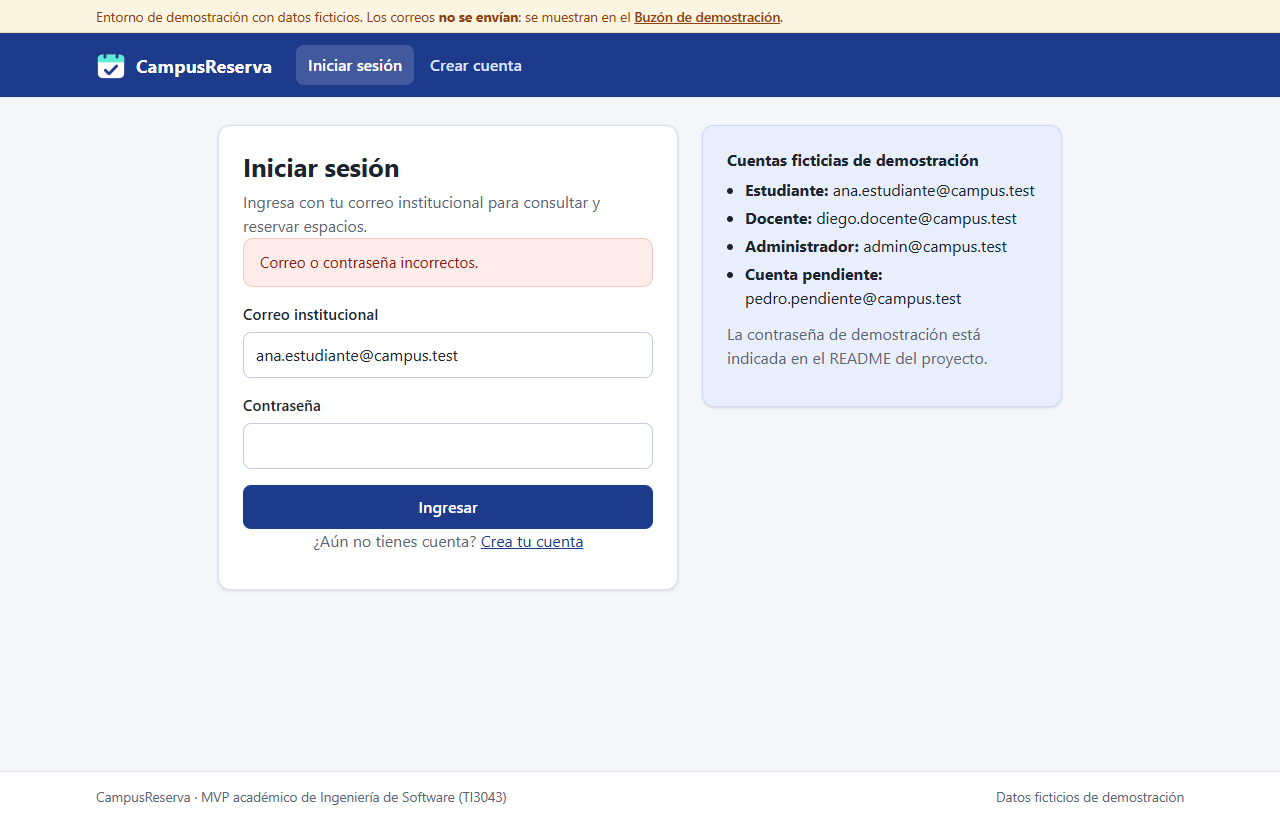
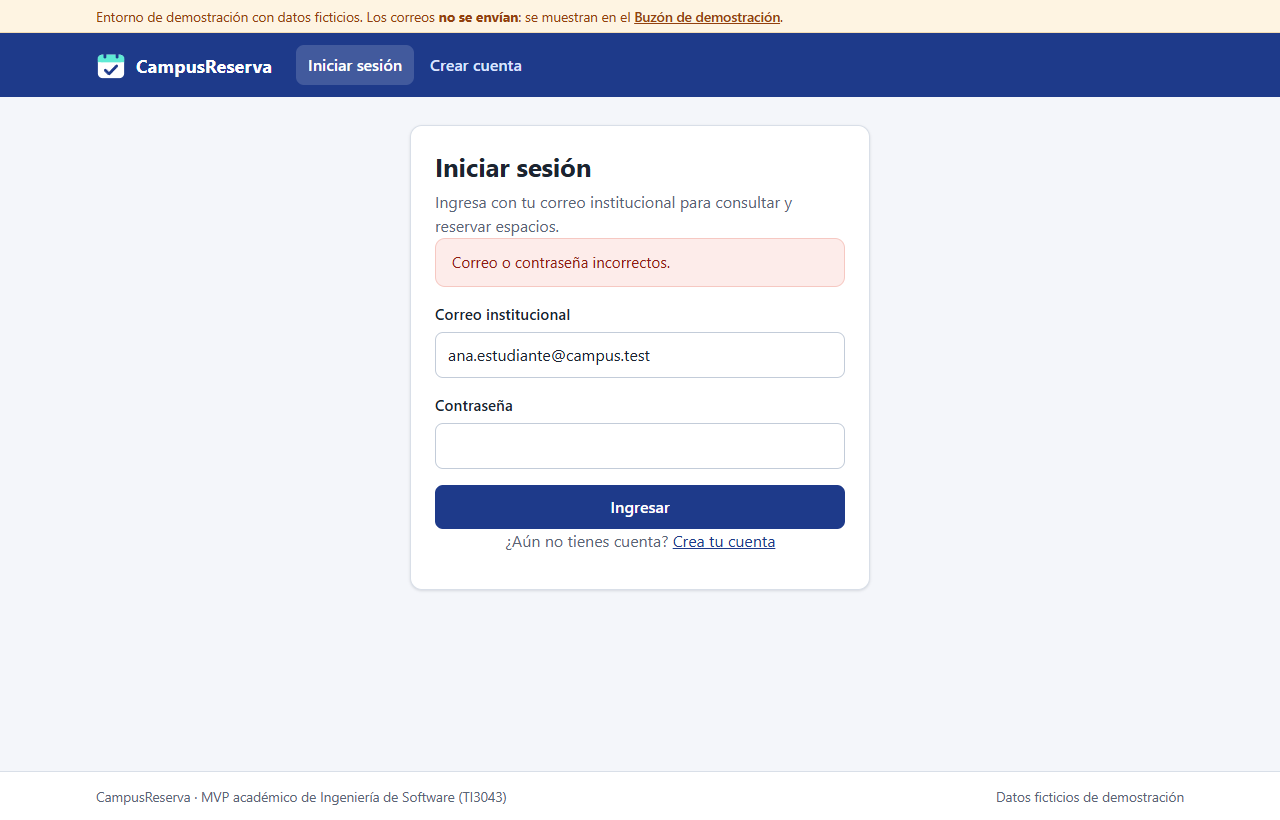
fix: quitar las cuentas de demostración de la página de inicio de sesión

diff --git a/public/css/estilos.css b/public/css/estilos.css
@@ -127,9 +127,6 @@ code { background: #eef1f6; padding: 0.05rem 0.35rem; border-radius: 4px; }
 /* ---------- Pantallas de autenticación ---------- */
 .auth { display: flex; gap: 24px; justify-content: center; align-items: flex-start; flex-wrap: wrap; }
 .tarjeta-auth { width: 100%; max-width: 460px; }
-.tarjeta-ayuda { width: 100%; max-width: 360px; background: var(--primario-suave); border-color: #cdd9f5; }
-.tarjeta-ayuda h2 { font-size: 1rem; }
-.auth .tarjeta + .tarjeta { margin-top: 0; }
 .icono-estado {
   width: 48px; height: 48px; border-radius: 50%; display: grid; place-items: center;
   font-size: 1.5rem; font-weight: 700; margin-bottom: 12px;

diff --git a/scripts/capturas.js b/scripts/capturas.js
@@ -86,7 +86,7 @@ async function main() {
     // ---------------------------------------------------------------- RF-01 / RF-02
     const anonimo = await (await nuevoContexto()).newPage();
     await anonimo.goto(`${URL_BASE}/login`);
-    await capturar(anonimo, '01-login', 'RF-02 Pantalla de inicio de sesión (con cuentas ficticias de demostración).');
+    await capturar(anonimo, '01-login', 'RF-02 Pantalla de inicio de sesión con correo institucional y contraseña.');
 
     await anonimo.goto(`${URL_BASE}/registro`);
     await anonimo.fill('#nombre', 'A');

diff --git a/docs/evidencias/capturas/INDICE.md b/docs/evidencias/capturas/INDICE.md
@@ -1,15 +1,15 @@
 # Índice de capturas (generadas con `npm run capturas`)
 
-Fecha: 2026-11-11T03:56:25.124Z
+Fecha: 2026-11-11T05:55:17.258Z
 
 | Archivo | Descripción | Ruta |
 |---|---|---|
-| 01-login.png | RF-02 Pantalla de inicio de sesión (con cuentas ficticias de demostración). | /login |
+| 01-login.png | RF-02 Pantalla de inicio de sesión con correo institucional y contraseña. | /login |
 | 02-registro-validaciones.png | RF-01 Validación en servidor: nombre, dominio institucional y contraseña. | /registro |
 | 03-registro-pendiente.png | RF-01 Cuenta creada en estado pendiente de confirmación. | /registro/enviado |
 | 04-buzon-demostracion.png | RF-01 Buzón de demostración: correo simulado con enlace de confirmación (no se envían correos reales). | /demo/buzon |
 | 05-login-cuenta-pendiente.png | RF-01/RF-02 Una cuenta pendiente no puede iniciar sesión. | /login |
-| 06-confirmar-cuenta.png | RF-01 Confirmación de cuenta desde el enlace (requiere presionar el botón). | /confirmar?token=kRmdSX5velaXqxxbRyYOyYoH5AKOp847V3PO3CCQeLE |
+| 06-confirmar-cuenta.png | RF-01 Confirmación de cuenta desde el enlace (requiere presionar el botón). | /confirmar?token=fUKAXYvBOZeE892ZRrcLQpmQ7zVo0b6WdpGvqfcglP0 |
 | 07-cuenta-confirmada.png | RF-01 Cuenta activada: ya puede iniciar sesión. | /login |
 | 08-login-credenciales-invalidas.png | RF-02 Rechazo de credenciales inválidas con mensaje genérico. | /login |
 | 09-disponibilidad-resultados.png | RF-03 Disponibilidad por sede y fecha (excluye reservados, bloqueados y espacios deshabilitados). | /disponibilidad?sede=1&fecha=2026-11-12 |
